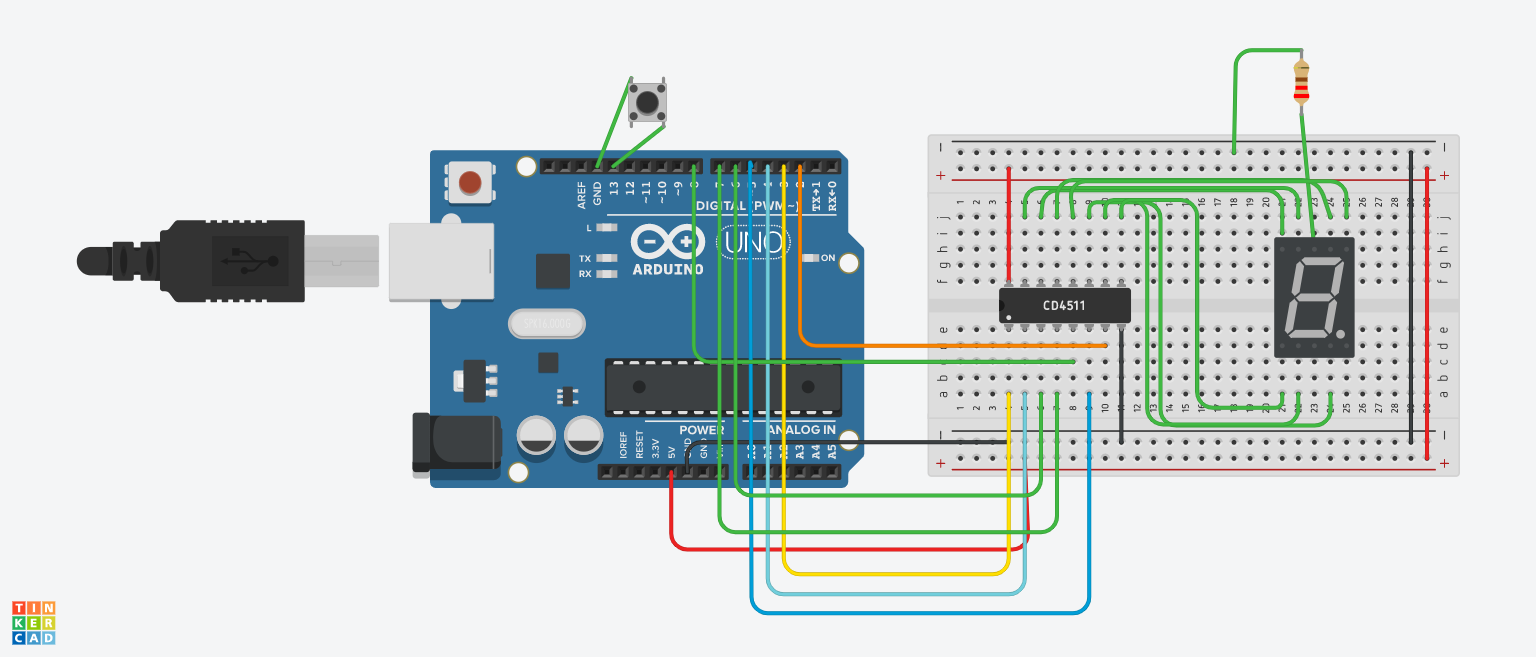
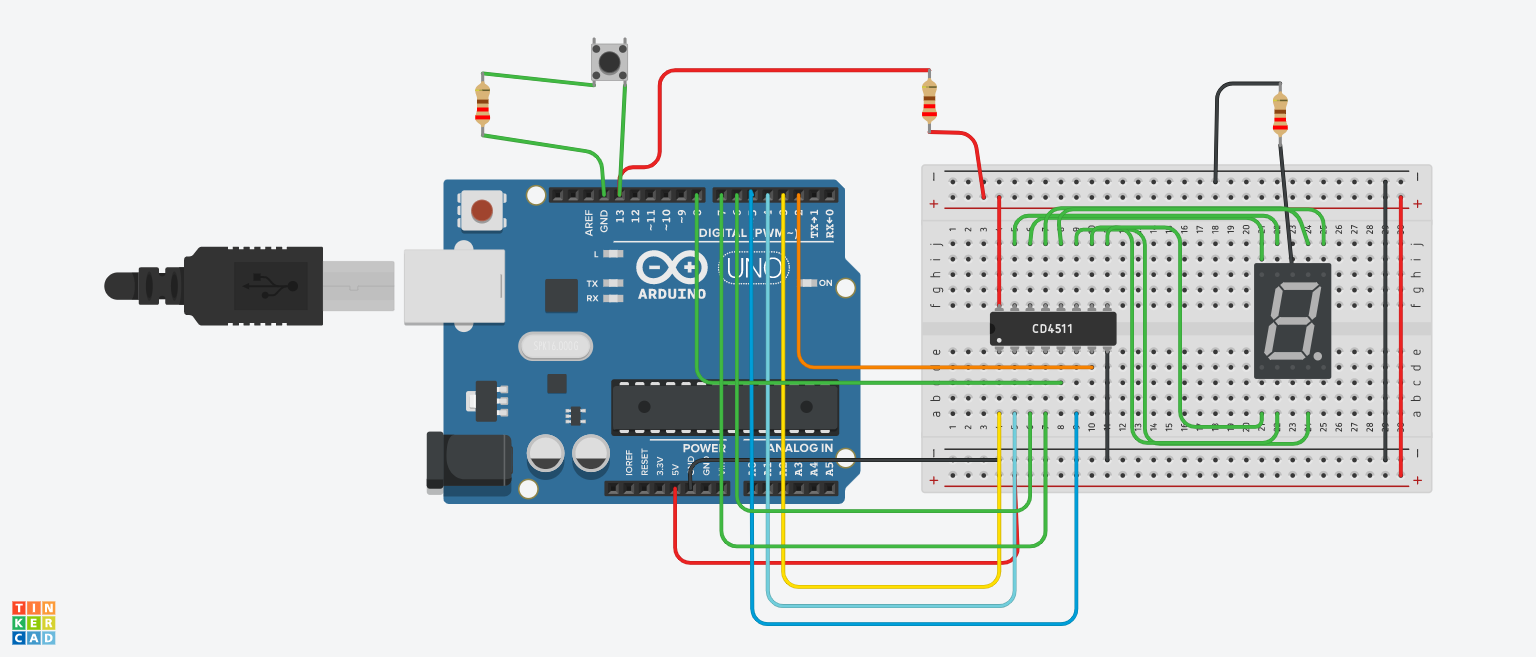
第八次作业提交

Changed region(s): [[0.0312, 0.0609, 0.9688, 0.9741], [0.8125, 0.0609, 0.8438, 0.0913]]

diff --git a/lesson7/code2.c b/lesson7/code2.c
@@ -1,20 +1,31 @@
 int n=0;
-int pinInterrupt = 9; //接中断信号的脚
-void onChange()
+byte n1=0;
+
+int pinInterrupt = 13; //接中断信号的脚
+void onchange()
+  
 {
-  n=0;
-  digitalWrite(8,LOW);
-  n=n-'0';
-  digitalWrite(2,n&0x1);
-  digitalWrite(3,(n>>1)&0x1);
-  digitalWrite(4,(n>>2)&0x1);
-  digitalWrite(5,(n>>3)&0x1);
-  digitalWrite(8,HIGH);
- }
+  if ( digitalRead(pinInterrupt) == LOW )
+    Serial.println("Key Down");
+  	n=0;
+    digitalWrite(8,LOW);
+    n1=n-'0';
+    digitalWrite(2,n1&0x1);
+    digitalWrite(3,(n1>>1)&0x1);
+    digitalWrite(4,(n1>>2)&0x1);
+    digitalWrite(5,(n1>>3)&0x1);
+    digitalWrite(8,HIGH);
+
+  else
+      Serial.println("Key UP");
+
+  
+}
  
 void setup()
 {
   Serial.begin(9600); //初始化串口
+
   pinMode(2, OUTPUT);//输入1
   pinMode(3, OUTPUT);//输入2
   pinMode(4, OUTPUT);//输入3
@@ -22,33 +33,25 @@ void setup()
   pinMode(8, OUTPUT);//片选1
   pinMode(6, OUTPUT);//片选2
   pinMode(7, OUTPUT);//片选3
+  pinMode( pinInterrupt, INPUT);
   digitalWrite(6,HIGH);
   digitalWrite(7,HIGH);
   digitalWrite(8,HIGH);
-  pinMode( pinInterrupt, INPUT);//设置管脚为输入
-   
-   //Enable中断管脚, 中断服务程序为onChange(), 监视引脚变化
   attachInterrupt( digitalPinToInterrupt(pinInterrupt), onChange, CHANGE);
 }
  
 void loop()
 {
-  n=1;
   digitalWrite(8,LOW);
-  n=n-'0';
-  digitalWrite(2,n&0x1);
-  digitalWrite(3,(n>>1)&0x1);
-  digitalWrite(4,(n>>2)&0x1);
-  digitalWrite(5,(n>>3)&0x1);
+  n1=n-'0';
+  digitalWrite(2,n1&0x1);
+  digitalWrite(3,(n1>>1)&0x1);
+  digitalWrite(4,(n1>>2)&0x1);
+  digitalWrite(5,(n1>>3)&0x1);
   digitalWrite(8,HIGH);
-  delay(1000);
-  if (n==9)
-  {
+  if(n==9)
     n=0;
-  }
   else
-  {
     n=n+1;
-  }
- 
-}
+  delay(1000);
+ }

diff --git a/lesson8/code.c b/lesson8/code.c
@@ -1,0 +1,45 @@
+
+*/
+
+// 定义一个数字数组去追踪
+// 越大的数字将被越平滑处理，但是会减慢输出对输入的反应
+// 用constant变量去决定数组索引的大小
+// 
+const int numReadings = 10;
+
+int readings[numReadings];      // 模拟输入变量readings
+int readIndex = 0;              // 设置索引下标
+int total = 0;                  // 运行次数
+int average = 0;                // 平均值
+int inputPin = A0;
+
+void setup() {
+  // 初始化串口通信
+  Serial.begin(9600);
+  // 初始化所有的变量readings:
+  for (int thisReading = 0; thisReading < numReadings; thisReading++) //循环十次{
+    readings[thisReading] = 0;
+  }
+}
+
+void loop() {
+  // 减去最近一次输入
+  total = total - readings[readIndex];
+  // 从传感器读取:
+  readings[readIndex] = analogRead(inputPin);
+  // 将最近一次读取添加到total计数:
+  total = total + readings[readIndex];
+  // 索引值加一位:
+  readIndex = readIndex + 1;
+
+  // 进行判断，如果在数组的末端则跳回到开始
+  if (readIndex >= numReadings) {
+    readIndex = 0;
+  }
+
+  //计算平均值:
+  average = total / numReadings;
+  // 转为ASCII码数字加到电脑
+  Serial.println(average);
+  delay(1);        //延时以稳定
+}
